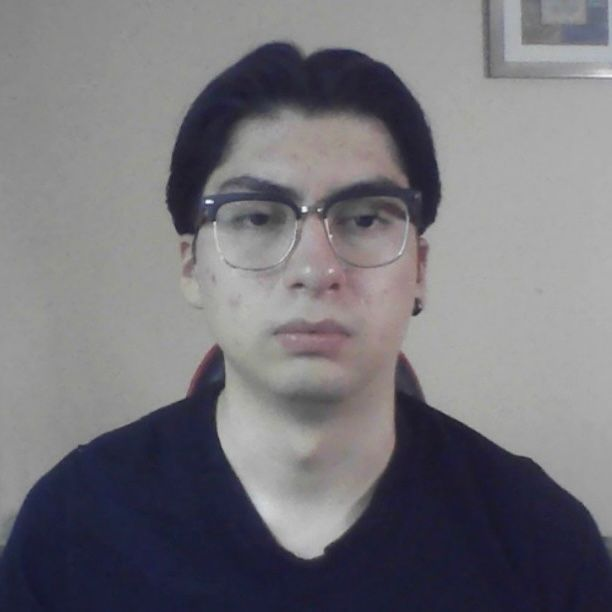
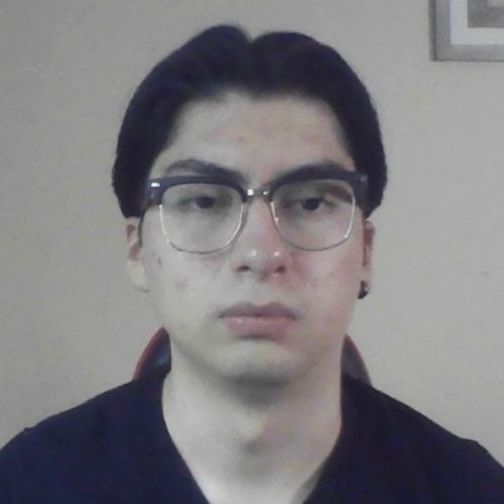
Added Images and Modifies Index

diff --git a/html/nosotros.html b/html/nosotros.html
@@ -20,9 +20,12 @@
                 <h4>2008407</h4>
             </div>
             <div class="conclusion">
-                <p>Lorem ipsum dolor sit amet, consectetur adipisicing elit. 
-                Veritatis consectetur a laudantium dolore sint incidunt iste odio unde nemo, 
-                ipsa ratione sunt eum. Reprehenderit beatae impedit quos odio sequi eius.</p>
+                <p>Durante esta unidad, apliqué conocimientos de HTML, CSS, JavaScript y Django
+                para crear una página web funcional y bien diseñada. Aprendí a optimizar el uso de 
+                etiquetas HTML, eligiendo aquellas que reducen el código sin perder funcionalidad. 
+                Aunque el diseño no afecta directamente el rendimiento, comprendí su importancia para 
+                una buena experiencia de usuario. Los retos que enfrenté me ayudaron a mejorar mis 
+                habilidades y me prepararon para futuros proyectos con un enfoque más eficiente y profesional.</p>
             </div>
         </div>
     
@@ -44,14 +47,14 @@
             </div>
         </div>
     
-        <!-- Tarjeta de Roberto -->
+        <!-- Tarjeta de David -->
         <div class="card-container">
             <div class="header">
                 <a href="#">
-                    <img src="/img/eunice.jpg" alt="">
+                    <img src="/img/david.jpg" alt="">
                 </a>
-                <h2>Ana Gómez <br> Puta puta</h2>
-                <h4>2008415</h4>
+                <h2>David<br> Flores Alonso</h2>
+                <h4>2003767</h4>
             </div>
             <div class="conclusion">
                 <p>Lorem ipsum dolor sit amet, consectetur adipisicing elit. 
@@ -60,19 +63,23 @@
             </div>
         </div>
     
-        <!-- Tarjeta de  -->
+        <!-- Tarjeta de Mauricio  -->
         <div class="card-container">
             <div class="header">
                 <a href="#">
-                    <img src="/img/eunice.jpg" alt="">
+                    <img src="/img/mauricio.jpg" alt="">
                 </a>
-                <h2>Mario Ruiz <br> pero pela</h2>
-                <h4>2008420</h4>
+                <h2>AFlores Alonso <br> Pérez Cruz </h2>
+                <h4>21868028</h4>
             </div>
             <div class="conclusion">
-                <p>Lorem ipsum dolor sit amet, consectetur adipisicing elit. 
-                Veritatis consectetur a laudantium dolore sint incidunt iste odio unde nemo, 
-                ipsa ratione sunt eum. Reprehenderit beatae impedit quos odio sequi eius.</p>
+                <p>En este proyecto pude ver que aunque funcional el uso de distinguidas 
+                etiquetas no son tan útiles en proyectos laborales, llego a esto debido 
+                a que a pesar de que existan mas maneras de lograr un propósito el logro 
+                es hacerlo entendiendo el como funcionan/existen etiquetas que ya logran
+                lo que se busca y a su vez disminuyendo la cantidad de código, añadiendo 
+                también a mis retos al hacer el trabajo, veo que el diseño aunque no intervenga
+                en la funcionalidad, creo que es algo muy importante al momento de hacer una vista o una pagina entera</p>
             </div>
         </div>
     
